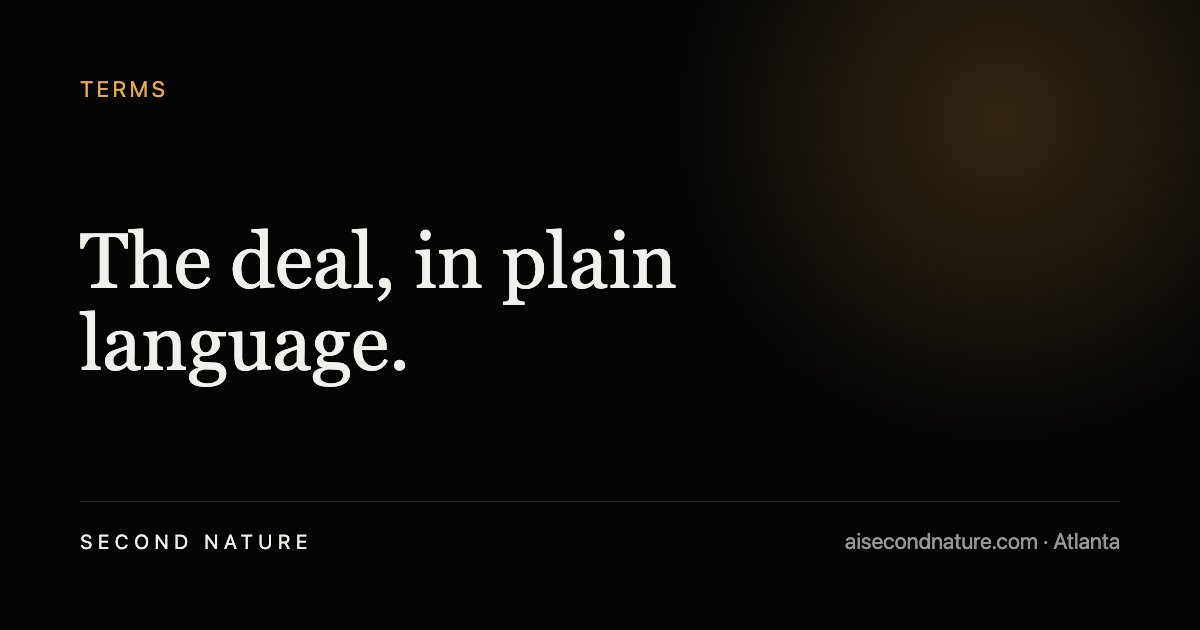
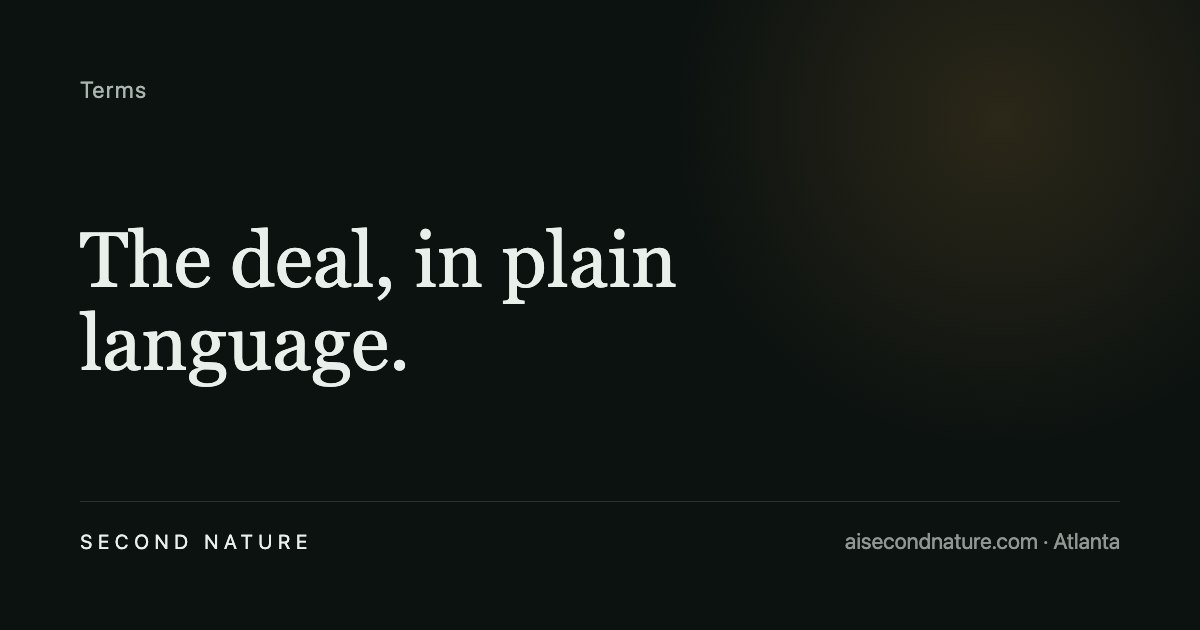
Regenerate share cards on the new palette; WebP for every photo
The OG generator still loaded playfair-display-*.woff2, deleted when Fraunces
replaced it, so every share card since the brand change had silently fallen
back to Georgia on the old pure-black ground. Rebuilt on the Petrichor palette
with Fraunces actually loading, eyebrows in sentence case rather than
letterspaced uppercase, and cards added for /pricing and /personal — both were
falling through to the homepage card.

Every photographic asset now ships WebP with a JPEG fallback. The Odessa
captures were 880px wide for a ~300px slot, so they came down to 660. One
image, veins, encoded LARGER as WebP at the shared quality — it is the noisiest
of the four — and since <picture> commits to a matching source rather than
falling back on a 404, it was re-encoded harder instead of skipped.

Work page: 977KB on load to 718KB fully scrolled. No broken images, no 4xx.

Also dropped @fontsource/playfair-display, unused since the font change, and
renamed the 'Playfair Fallback' family to 'Serif Fallback' — it is a local()
Georgia metric override and was never Playfair.

diff --git a/src/components/PageImage.jsx b/src/components/PageImage.jsx
@@ -43,8 +43,17 @@ export default function PageImage({ name, heading, children }) {
   return (
     <div className={`page-image page-image-${name}`}>
       <picture>
+        <source media="(max-width: 800px)" type="image/webp" srcSet={`/img/${img.src}-800.webp`} />
         <source media="(max-width: 800px)" srcSet={`/img/${img.src}-800.jpg`} />
-        <img src={`/img/${img.src}-1600.jpg`} alt={img.alt} loading="lazy" decoding="async" />
+        <source type="image/webp" srcSet={`/img/${img.src}-1600.webp`} />
+        <img
+          src={`/img/${img.src}-1600.jpg`}
+          width="1600"
+          height="896"
+          alt={img.alt}
+          loading="lazy"
+          decoding="async"
+        />
       </picture>
       <div className="page-image-veil" aria-hidden="true" />
       {(heading || children) && (

diff --git a/src/components/ProductStrip.jsx b/src/components/ProductStrip.jsx
@@ -26,7 +26,10 @@ export default function ProductStrip() {
         <div className="strip-rail">
         {SHOTS.map((s) => (
           <div className="strip-shot" key={s.src}>
-            <img src={`/img/${s.src}.jpg`} alt={s.alt} width="880" height="1500" loading="lazy" decoding="async" />
+            <picture>
+              <source type="image/webp" srcSet={`/img/${s.src}.webp`} />
+              <img src={`/img/${s.src}.jpg`} alt={s.alt} width="660" height="1125" loading="lazy" decoding="async" />
+            </picture>
             <span className="strip-label">{s.label}</span>
           </div>
           ))}

diff --git a/src/index.css b/src/index.css
@@ -57,7 +57,7 @@ ul, ol { list-style: none; padding: 0; }
   /* Type. Playfair is documented as past its cliché horizon — by the
      mid-2010s the default for wedding sites and boutique hotels. Fraunces
      is variable with a real optical-size axis plus SOFT/WONK. */
-  --serif: "Fraunces", "Playfair Fallback", Georgia, serif;
+  --serif: "Fraunces", "Serif Fallback", Georgia, serif;
   --body: "Schibsted Grotesk", "Schibsted Fallback", system-ui, sans-serif;
   --grotesk: var(--body);
   --mono: "Martian Mono", ui-monospace, monospace;

diff --git a/src/pages/About.jsx b/src/pages/About.jsx
@@ -38,7 +38,9 @@ export default function About() {
         <section className="detail-block" aria-labelledby="why">
           <figure className="about-portrait">
             <picture>
+              <source media="(max-width: 700px)" type="image/webp" srcSet="/img/miles-450.webp" />
               <source media="(max-width: 700px)" srcSet="/img/miles-450.jpg" />
+              <source type="image/webp" srcSet="/img/miles-900.webp" />
               <img
                 src="/img/miles-900.jpg"
                 width="900"

diff --git a/src/styles/fonts.css b/src/styles/fonts.css
@@ -61,7 +61,7 @@
   line-gap-override: 0%;
 }
 @font-face {
-  font-family: "Playfair Fallback";
+  font-family: "Serif Fallback";
   src: local("Georgia"), local("Times New Roman");
   size-adjust: 96%;
   ascent-override: 88%;
